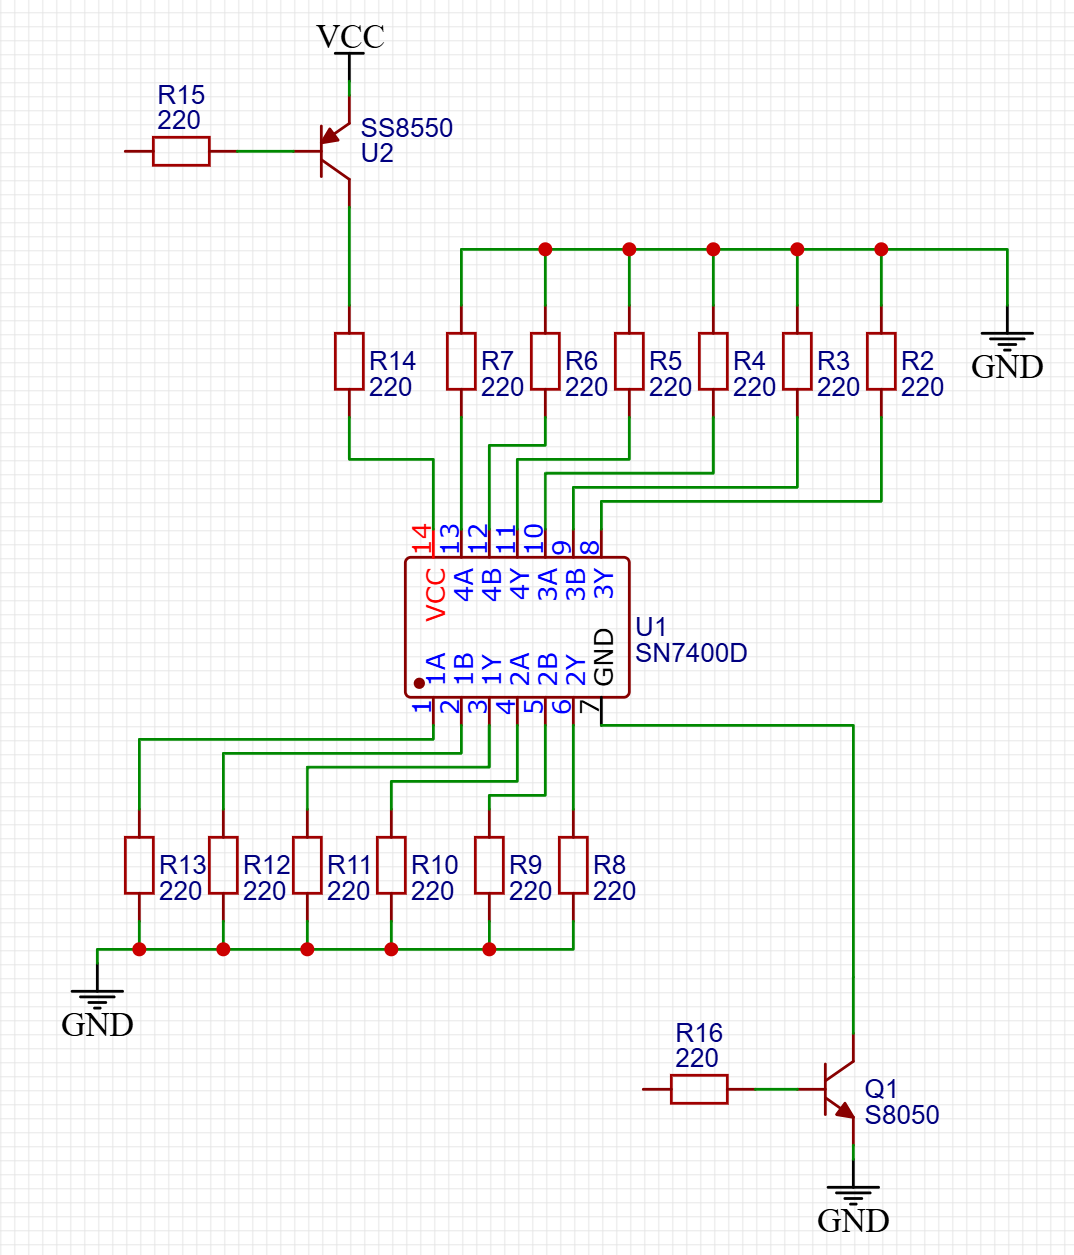
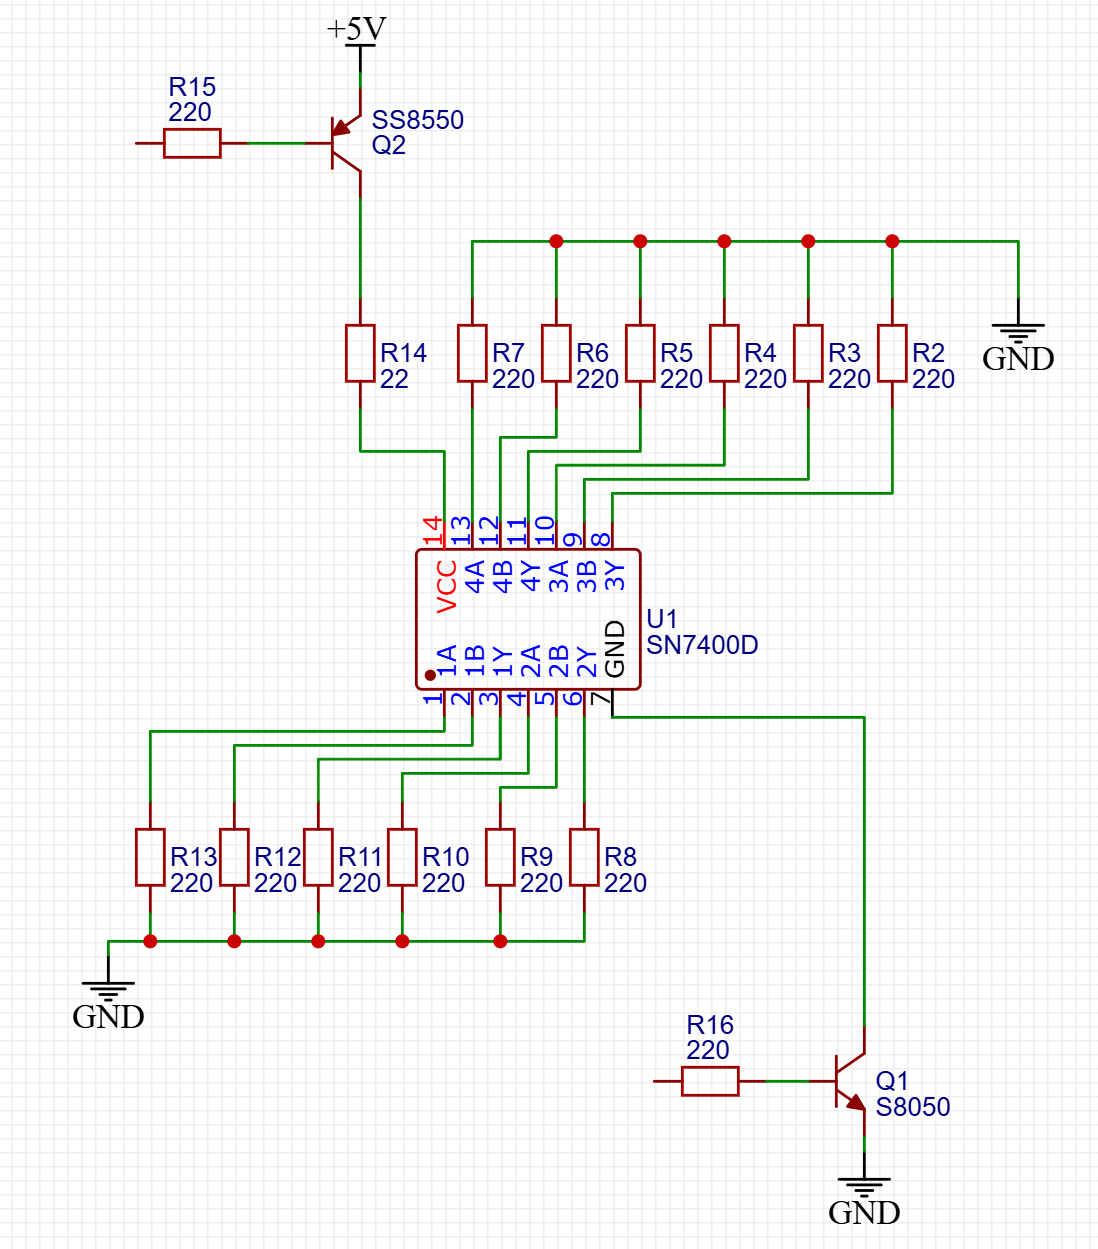
modified:   Pictures/Figure2.png

Changed region(s): [[0.0615, 0.0, 0.9832, 0.9992]]

diff --git a/README.md b/README.md
@@ -77,4 +77,25 @@ To eliminate this non-compliant situation, I propose connecting the power pins v
 
 I removed the resistor R 1 so pin 7 is connected directly to ground via transistor Q1.
 
+The maximum current that can pass through transistor Q1 is the sum of all currents entering the chip under test if the other pins are connected to =5 Volts.
+
+Theoretically this current can have a maximum value of: maximum current on one pin * maximum number of pins receiving current:
+
+40 mA * 13 = 520 mA
+
+For this collector current we must have a base current of minimum:
+
+Ib = Ic / Hfe = 520 mA / 40 = 13 mA
+
+To saturate transistor Q1 the base current must be almost double the calculated value. For a base resistance of 220 Ohms we will have a base current:
+
+Ib = (Vcc – Vbe_sat) / Rb = (5V – 1V) / 220 = 18 mA
+
+The same current values are valid for transistor Q2.
+
+In case we have a defective chip or one mounted twisted in the socket we must limit the supply current. I chose the maximum value of 200 mA
+
+The maximum value of the supply current entering pin 14 is limited by resistor R14.
+
+R14 = (Vcc – Vce_sat_q1 - Vce_sat_q12) / Imax = (5V – 0.3 – 0.3V) / 200 mA = 4.4V / 0.2A = 22 Ohms
 
